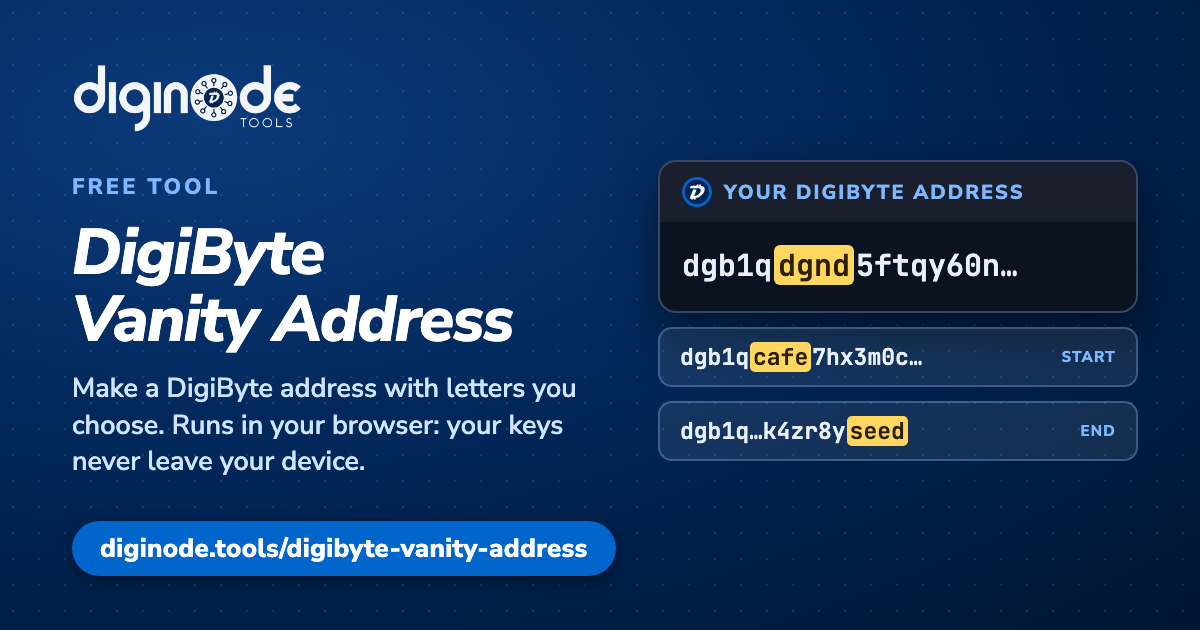
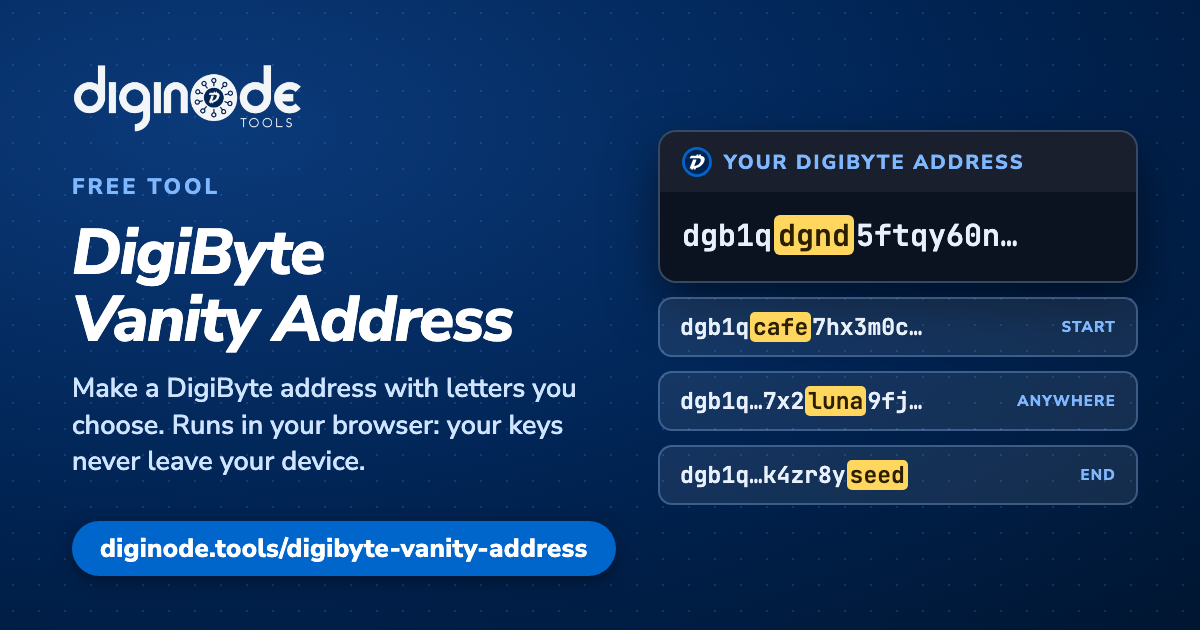
DigiByte Vanity Address share card: add an 'anywhere' example

Changed region(s): [[0.5242, 0.181, 0.9558, 0.8143]]

diff --git a/website/source/share-cards/art/vanity.html b/website/source/share-cards/art/vanity.html
@@ -1,7 +1,7 @@
 <link rel="stylesheet" href="https://fonts.googleapis.com/css2?family=JetBrains+Mono:wght@600&display=block">
 <style>
 /* Example words avoid b, i, o and 1, which DigiByte addresses never contain. */
-.va{position:absolute;right:62px;top:160px;width:480px;display:flex;flex-direction:column;gap:14px}
+.va{position:absolute;right:62px;top:130px;width:480px;display:flex;flex-direction:column;gap:14px}
 .va .card{border-radius:18px;overflow:hidden;background:#0b1220;border:2px solid rgba(156,200,255,.3);box-shadow:0 20px 50px rgba(0,0,0,.5)}
 .va .head{display:flex;align-items:center;gap:12px;padding:15px 22px;background:rgba(255,255,255,.06);font-weight:800;font-size:20px;letter-spacing:2px;color:#7fb8ff;text-transform:uppercase}
 .va .body{padding:24px 22px 26px}
@@ -18,5 +18,6 @@
     <div class="body"><div class="big">dgb1q<mark>dgnd</mark>5ftqy60n…</div></div>
   </div>
   <div class="row"><code>dgb1q<mark>cafe</mark>7hx3m0c…</code><small>Start</small></div>
+  <div class="row"><code>dgb1q…7x2<mark>luna</mark>9fj…</code><small>Anywhere</small></div>
   <div class="row"><code>dgb1q…k4zr8y<mark>seed</mark></code><small>End</small></div>
 </div>
